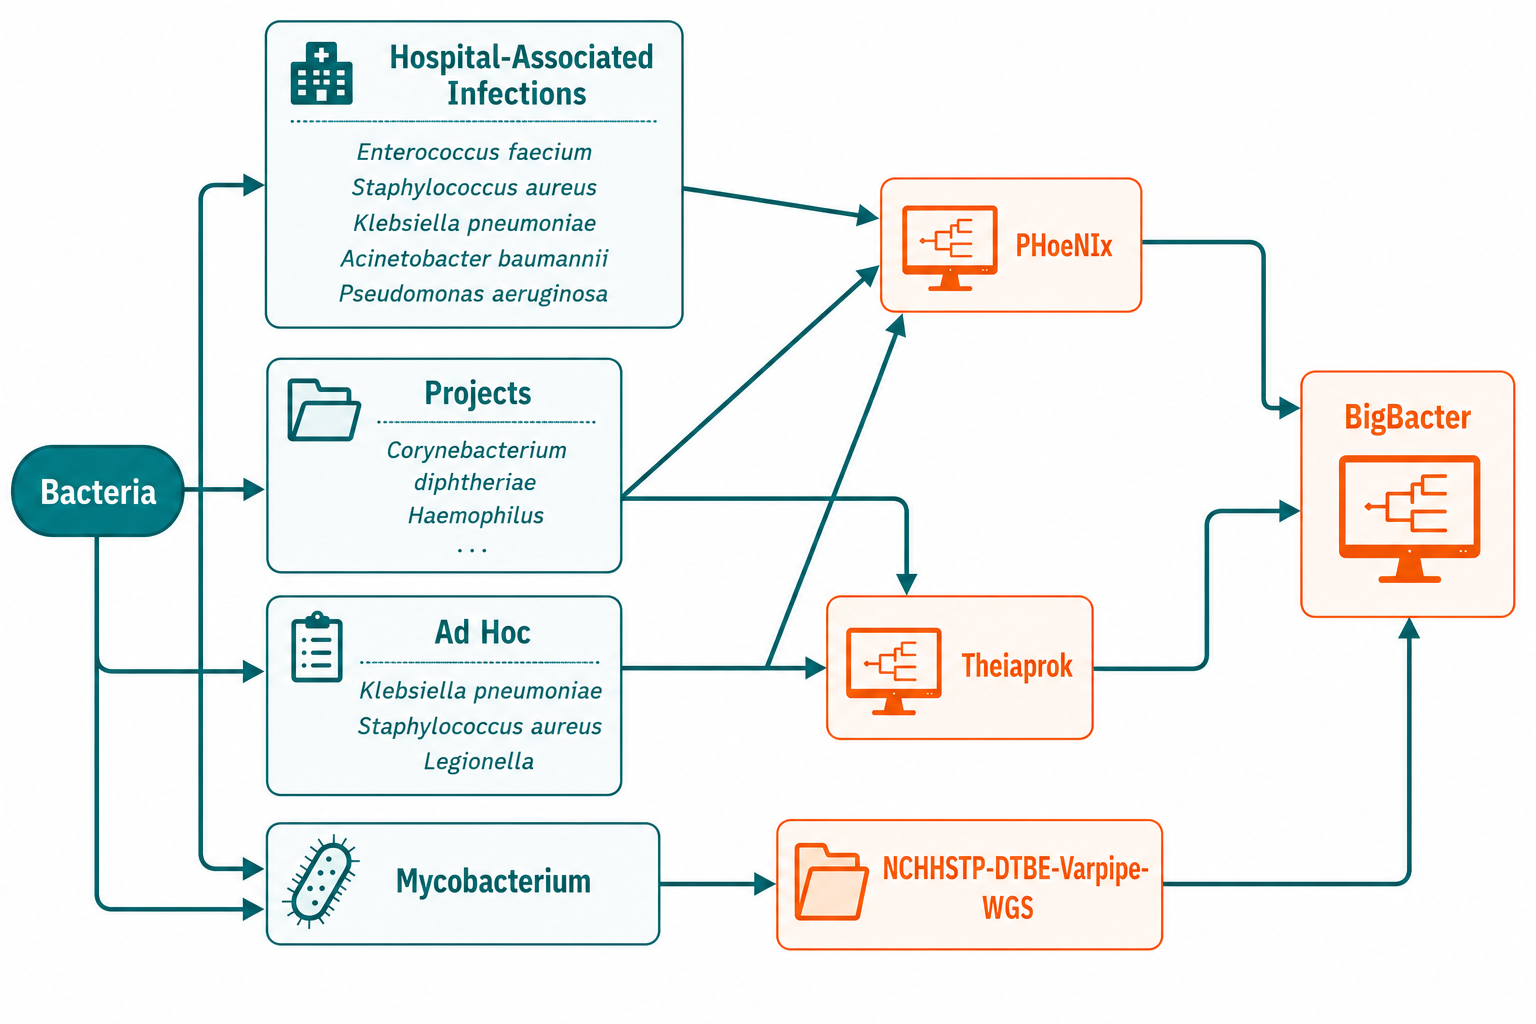
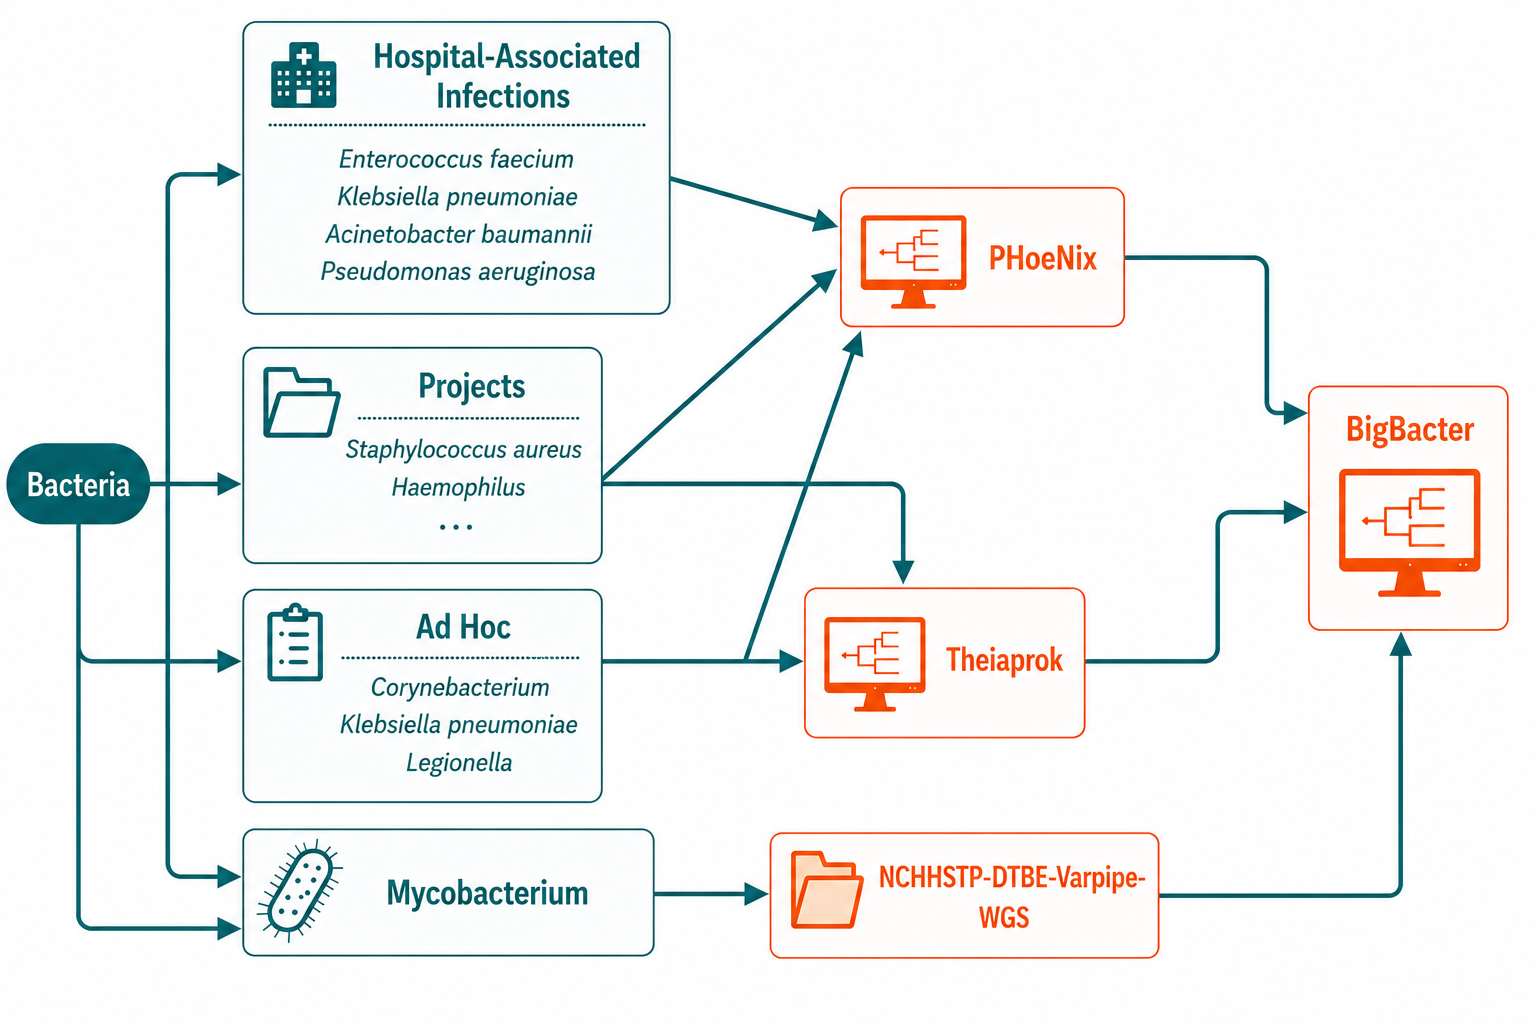
bacterial workflow slide fix

Changed region(s): [[0.0, 0.0312, 1.0, 0.9375]]

diff --git a/cdph-epi-bootcamp/data/cumulative_by_group.html b/cdph-epi-bootcamp/data/cumulative_by_group.html
@@ -2,6 +2,6 @@
 <head><meta charset="utf-8" /></head>
 <body>
     <div style="height:100%; width:100%;">                        <script>window.PlotlyConfig = {MathJaxConfig: 'local'};</script>
-        <script charset="utf-8" src="https://cdn.plot.ly/plotly-3.7.0.min.js" integrity="sha256-jvTGqxNp8AGWEcvNLVuKr+8j5dGe9Yw51LQkmDH+IYA=" crossorigin="anonymous"></script>                <div id="1ba4c65f-1d22-4983-866d-e1cf8800ba35" class="plotly-graph-div" style="height:100%; width:100%;"></div>            <script>                window.PLOTLYENV=window.PLOTLYENV || {};                                if (document.getElementById("1ba4c65f-1d22-4983-866d-e1cf8800ba35")) {                    Plotly.newPlot(                        "1ba4c65f-1d22-4983-866d-e1cf8800ba35",                        [{"hovertemplate":"Acinetobacter\u003cbr\u003eYear: %{x}\u003cbr\u003eCumulative: %{y}\u003cextra\u003e\u003c\u002fextra\u003e","legendgroup":"Bacteria","legendgrouptitle":{"text":"Bacteria"},"line":{"color":"rgba(97,143,151,0.85)","width":1.2},"marker":{"color":"rgba(97,143,151,0.85)","size":4},"mode":"lines+markers","name":"Acinetobacter","x":[2020,2021,2022,2023,2024,2025,2026],"y":{"dtype":"i2","bdata":"RQAcAvIE0AaVB1IIigg="},"type":"scatter"},{"hovertemplate":"Citrobacter\u003cbr\u003eYear: %{x}\u003cbr\u003eCumulative: %{y}\u003cextra\u003e\u003c\u002fextra\u003e","legendgroup":"Bacteria","legendgrouptitle":{"text":"Bacteria"},"line":{"color":"rgba(106,150,157,0.85)","width":1.2},"marker":{"color":"rgba(106,150,157,0.85)","size":4},"mode":"lines+markers","name":"Citrobacter","x":[2020,2021,2022,2023,2024,2025,2026],"y":{"dtype":"i1","bdata":"AQQFChAUFg=="},"type":"scatter"},{"hovertemplate":"Enterobacter\u003cbr\u003eYear: %{x}\u003cbr\u003eCumulative: %{y}\u003cextra\u003e\u003c\u002fextra\u003e","legendgroup":"Bacteria","legendgrouptitle":{"text":"Bacteria"},"line":{"color":"rgba(115,156,163,0.85)","width":1.2},"marker":{"color":"rgba(115,156,163,0.85)","size":4},"mode":"lines+markers","name":"Enterobacter","x":[2020,2021,2022,2023,2024,2025,2026],"y":{"dtype":"i1","bdata":"EyUvPlFiZQ=="},"type":"scatter"},{"hovertemplate":"Escherichia\u003cbr\u003eYear: %{x}\u003cbr\u003eCumulative: %{y}\u003cextra\u003e\u003c\u002fextra\u003e","legendgroup":"Bacteria","legendgrouptitle":{"text":"Bacteria"},"line":{"color":"rgba(124,163,169,0.85)","width":1.2},"marker":{"color":"rgba(124,163,169,0.85)","size":4},"mode":"lines+markers","name":"Escherichia","x":[2020,2021,2022,2023,2024,2025,2026],"y":{"dtype":"i2","bdata":"FAAhAD4AggC7APAACgE="},"type":"scatter"},{"hovertemplate":"Hafnia\u003cbr\u003eYear: %{x}\u003cbr\u003eCumulative: %{y}\u003cextra\u003e\u003c\u002fextra\u003e","legendgroup":"Bacteria","legendgrouptitle":{"text":"Bacteria"},"line":{"color":"rgba(133,169,175,0.85)","width":1.2},"marker":{"color":"rgba(133,169,175,0.85)","size":4},"mode":"lines+markers","name":"Hafnia","x":[2020,2021,2022,2023,2024,2025,2026],"y":{"dtype":"i1","bdata":"AAAAAQEBAQ=="},"type":"scatter"},{"hovertemplate":"Klebsiella\u003cbr\u003eYear: %{x}\u003cbr\u003eCumulative: %{y}\u003cextra\u003e\u003c\u002fextra\u003e","legendgroup":"Bacteria","legendgrouptitle":{"text":"Bacteria"},"line":{"color":"rgba(142,175,181,0.85)","width":1.2},"marker":{"color":"rgba(142,175,181,0.85)","size":4},"mode":"lines+markers","name":"Klebsiella","x":[2020,2021,2022,2023,2024,2025,2026],"y":{"dtype":"i2","bdata":"EwAlAHIAogDEAO0AHwE="},"type":"scatter"},{"hovertemplate":"Morganella\u003cbr\u003eYear: %{x}\u003cbr\u003eCumulative: %{y}\u003cextra\u003e\u003c\u002fextra\u003e","legendgroup":"Bacteria","legendgrouptitle":{"text":"Bacteria"},"line":{"color":"rgba(151,182,187,0.85)","width":1.2},"marker":{"color":"rgba(151,182,187,0.85)","size":4},"mode":"lines+markers","name":"Morganella","x":[2020,2021,2022,2023,2024,2025,2026],"y":{"dtype":"i1","bdata":"AAIEBAQFBg=="},"type":"scatter"},{"hovertemplate":"Proteus\u003cbr\u003eYear: %{x}\u003cbr\u003eCumulative: %{y}\u003cextra\u003e\u003c\u002fextra\u003e","legendgroup":"Bacteria","legendgrouptitle":{"text":"Bacteria"},"line":{"color":"rgba(160,188,193,0.85)","width":1.2},"marker":{"color":"rgba(160,188,193,0.85)","size":4},"mode":"lines+markers","name":"Proteus","x":[2020,2021,2022,2023,2024,2025,2026],"y":{"dtype":"i1","bdata":"AgMECgwNDQ=="},"type":"scatter"},{"hovertemplate":"Providencia\u003cbr\u003eYear: %{x}\u003cbr\u003eCumulative: %{y}\u003cextra\u003e\u003c\u002fextra\u003e","legendgroup":"Bacteria","legendgrouptitle":{"text":"Bacteria"},"line":{"color":"rgba(169,195,199,0.85)","width":1.2},"marker":{"color":"rgba(169,195,199,0.85)","size":4},"mode":"lines+markers","name":"Providencia","x":[2020,2021,2022,2023,2024,2025,2026],"y":{"dtype":"i1","bdata":"AgIFBwgICA=="},"type":"scatter"},{"hovertemplate":"Pseudomonas\u003cbr\u003eYear: %{x}\u003cbr\u003eCumulative: %{y}\u003cextra\u003e\u003c\u002fextra\u003e","legendgroup":"Bacteria","legendgrouptitle":{"text":"Bacteria"},"line":{"color":"rgba(179,201,205,0.85)","width":1.2},"marker":{"color":"rgba(179,201,205,0.85)","size":4},"mode":"lines+markers","name":"Pseudomonas","x":[2020,2021,2022,2023,2024,2025,2026],"y":{"dtype":"i2","bdata":"FAA5AHEAvQDeAPMA\u002fwA="},"type":"scatter"},{"hovertemplate":"Raoultella\u003cbr\u003eYear: %{x}\u003cbr\u003eCumulative: %{y}\u003cextra\u003e\u003c\u002fextra\u003e","legendgroup":"Bacteria","legendgrouptitle":{"text":"Bacteria"},"line":{"color":"rgba(188,207,211,0.85)","width":1.2},"marker":{"color":"rgba(188,207,211,0.85)","size":4},"mode":"lines+markers","name":"Raoultella","x":[2020,2021,2022,2023,2024,2025,2026],"y":{"dtype":"i1","bdata":"AAAAAQEBAQ=="},"type":"scatter"},{"hovertemplate":"Serratia\u003cbr\u003eYear: %{x}\u003cbr\u003eCumulative: %{y}\u003cextra\u003e\u003c\u002fextra\u003e","legendgroup":"Bacteria","legendgrouptitle":{"text":"Bacteria"},"line":{"color":"rgba(197,214,217,0.85)","width":1.2},"marker":{"color":"rgba(197,214,217,0.85)","size":4},"mode":"lines+markers","name":"Serratia","x":[2020,2021,2022,2023,2024,2025,2026],"y":{"dtype":"i1","bdata":"AwMFCgoNDQ=="},"type":"scatter"},{"hovertemplate":"Staphylococcus\u003cbr\u003eYear: %{x}\u003cbr\u003eCumulative: %{y}\u003cextra\u003e\u003c\u002fextra\u003e","legendgroup":"Bacteria","legendgrouptitle":{"text":"Bacteria"},"line":{"color":"rgba(206,220,223,0.85)","width":1.2},"marker":{"color":"rgba(206,220,223,0.85)","size":4},"mode":"lines+markers","name":"Staphylococcus","x":[2020,2021,2022,2023,2024,2025,2026],"y":{"dtype":"i1","bdata":"ExMTExMTEw=="},"type":"scatter"},{"hovertemplate":"Candidozyma\u003cbr\u003eYear: %{x}\u003cbr\u003eCumulative: %{y}\u003cextra\u003e\u003c\u002fextra\u003e","legendgroup":"Fungi","legendgrouptitle":{"text":"Fungi"},"line":{"color":"rgba(237,175,120,0.85)","width":1.2},"marker":{"color":"rgba(237,175,120,0.85)","size":4},"mode":"lines+markers","name":"Candidozyma","x":[2020,2021,2022,2023,2024,2025,2026],"y":{"dtype":"i2","bdata":"AAAAAAAAWQCfAV8CzAI="},"type":"scatter"},{"hovertemplate":"\u003cb\u003eBacteria total\u003c\u002fb\u003e\u003cbr\u003eYear: %{x}\u003cbr\u003eCumulative: %{y}\u003cextra\u003e\u003c\u002fextra\u003e","legendgroup":"Bacteria","legendgrouptitle":{"text":"Bacteria"},"line":{"color":"rgba(12,84,96,1.0)","width":3.5},"marker":{"color":"rgba(12,84,96,1.0)","line":{"color":"white","width":1.2},"size":8},"mode":"lines+markers","name":"\u003cb\u003eBacteria (total)\u003c\u002fb\u003e","x":[2020,2021,2022,2023,2024,2025,2026],"y":{"dtype":"i2","bdata":"rgDhAmwGLQmKCtQLagw="},"type":"scatter"},{"hovertemplate":"\u003cb\u003eFungi total\u003c\u002fb\u003e\u003cbr\u003eYear: %{x}\u003cbr\u003eCumulative: %{y}\u003cextra\u003e\u003c\u002fextra\u003e","legendgroup":"Fungi","legendgrouptitle":{"text":"Fungi"},"line":{"color":"rgba(228,132,48,1.0)","width":3.5},"marker":{"color":"rgba(228,132,48,1.0)","line":{"color":"white","width":1.2},"size":8},"mode":"lines+markers","name":"\u003cb\u003eFungi (total)\u003c\u002fb\u003e","x":[2020,2021,2022,2023,2024,2025,2026],"y":{"dtype":"i2","bdata":"AAAAAAAAWQCfAV8CzAI="},"type":"scatter"}],                        {"template":{"data":{"histogram2dcontour":[{"type":"histogram2dcontour","colorbar":{"outlinewidth":0,"ticks":""},"colorscale":[[0.0,"#0d0887"],[0.1111111111111111,"#46039f"],[0.2222222222222222,"#7201a8"],[0.3333333333333333,"#9c179e"],[0.4444444444444444,"#bd3786"],[0.5555555555555556,"#d8576b"],[0.6666666666666666,"#ed7953"],[0.7777777777777778,"#fb9f3a"],[0.8888888888888888,"#fdca26"],[1.0,"#f0f921"]]}],"choropleth":[{"type":"choropleth","colorbar":{"outlinewidth":0,"ticks":""}}],"histogram2d":[{"type":"histogram2d","colorbar":{"outlinewidth":0,"ticks":""},"colorscale":[[0.0,"#0d0887"],[0.1111111111111111,"#46039f"],[0.2222222222222222,"#7201a8"],[0.3333333333333333,"#9c179e"],[0.4444444444444444,"#bd3786"],[0.5555555555555556,"#d8576b"],[0.6666666666666666,"#ed7953"],[0.7777777777777778,"#fb9f3a"],[0.8888888888888888,"#fdca26"],[1.0,"#f0f921"]]}],"heatmap":[{"type":"heatmap","colorbar":{"outlinewidth":0,"ticks":""},"colorscale":[[0.0,"#0d0887"],[0.1111111111111111,"#46039f"],[0.2222222222222222,"#7201a8"],[0.3333333333333333,"#9c179e"],[0.4444444444444444,"#bd3786"],[0.5555555555555556,"#d8576b"],[0.6666666666666666,"#ed7953"],[0.7777777777777778,"#fb9f3a"],[0.8888888888888888,"#fdca26"],[1.0,"#f0f921"]]}],"contourcarpet":[{"type":"contourcarpet","colorbar":{"outlinewidth":0,"ticks":""}}],"contour":[{"type":"contour","colorbar":{"outlinewidth":0,"ticks":""},"colorscale":[[0.0,"#0d0887"],[0.1111111111111111,"#46039f"],[0.2222222222222222,"#7201a8"],[0.3333333333333333,"#9c179e"],[0.4444444444444444,"#bd3786"],[0.5555555555555556,"#d8576b"],[0.6666666666666666,"#ed7953"],[0.7777777777777778,"#fb9f3a"],[0.8888888888888888,"#fdca26"],[1.0,"#f0f921"]]}],"surface":[{"type":"surface","colorbar":{"outlinewidth":0,"ticks":""},"colorscale":[[0.0,"#0d0887"],[0.1111111111111111,"#46039f"],[0.2222222222222222,"#7201a8"],[0.3333333333333333,"#9c179e"],[0.4444444444444444,"#bd3786"],[0.5555555555555556,"#d8576b"],[0.6666666666666666,"#ed7953"],[0.7777777777777778,"#fb9f3a"],[0.8888888888888888,"#fdca26"],[1.0,"#f0f921"]]}],"mesh3d":[{"type":"mesh3d","colorbar":{"outlinewidth":0,"ticks":""}}],"scatter":[{"fillpattern":{"fillmode":"overlay","size":10,"solidity":0.2},"type":"scatter"}],"parcoords":[{"type":"parcoords","line":{"colorbar":{"outlinewidth":0,"ticks":""}}}],"scatterpolargl":[{"type":"scatterpolargl","marker":{"colorbar":{"outlinewidth":0,"ticks":""}}}],"bar":[{"error_x":{"color":"#2a3f5f"},"error_y":{"color":"#2a3f5f"},"marker":{"line":{"color":"#E5ECF6","width":0.5},"pattern":{"fillmode":"overlay","size":10,"solidity":0.2}},"type":"bar"}],"scattergeo":[{"type":"scattergeo","marker":{"colorbar":{"outlinewidth":0,"ticks":""}}}],"scatterpolar":[{"type":"scatterpolar","marker":{"colorbar":{"outlinewidth":0,"ticks":""}}}],"histogram":[{"marker":{"pattern":{"fillmode":"overlay","size":10,"solidity":0.2}},"type":"histogram"}],"scattergl":[{"type":"scattergl","marker":{"colorbar":{"outlinewidth":0,"ticks":""}}}],"scatter3d":[{"type":"scatter3d","line":{"colorbar":{"outlinewidth":0,"ticks":""}},"marker":{"colorbar":{"outlinewidth":0,"ticks":""}}}],"scattermap":[{"type":"scattermap","marker":{"colorbar":{"outlinewidth":0,"ticks":""}}}],"scattermapbox":[{"type":"scattermapbox","marker":{"colorbar":{"outlinewidth":0,"ticks":""}}}],"scatterternary":[{"type":"scatterternary","marker":{"colorbar":{"outlinewidth":0,"ticks":""}}}],"scattercarpet":[{"type":"scattercarpet","marker":{"colorbar":{"outlinewidth":0,"ticks":""}}}],"carpet":[{"aaxis":{"endlinecolor":"#2a3f5f","gridcolor":"white","linecolor":"white","minorgridcolor":"white","startlinecolor":"#2a3f5f"},"baxis":{"endlinecolor":"#2a3f5f","gridcolor":"white","linecolor":"white","minorgridcolor":"white","startlinecolor":"#2a3f5f"},"type":"carpet"}],"table":[{"cells":{"fill":{"color":"#EBF0F8"},"line":{"color":"white"}},"header":{"fill":{"color":"#C8D4E3"},"line":{"color":"white"}},"type":"table"}],"barpolar":[{"marker":{"line":{"color":"#E5ECF6","width":0.5},"pattern":{"fillmode":"overlay","size":10,"solidity":0.2}},"type":"barpolar"}],"pie":[{"automargin":true,"type":"pie"}]},"layout":{"autotypenumbers":"strict","colorway":["#636efa","#EF553B","#00cc96","#ab63fa","#FFA15A","#19d3f3","#FF6692","#B6E880","#FF97FF","#FECB52"],"font":{"color":"#2a3f5f"},"hovermode":"closest","hoverlabel":{"align":"left"},"paper_bgcolor":"white","plot_bgcolor":"#E5ECF6","polar":{"bgcolor":"#E5ECF6","angularaxis":{"gridcolor":"white","linecolor":"white","ticks":""},"radialaxis":{"gridcolor":"white","linecolor":"white","ticks":""}},"ternary":{"bgcolor":"#E5ECF6","aaxis":{"gridcolor":"white","linecolor":"white","ticks":""},"baxis":{"gridcolor":"white","linecolor":"white","ticks":""},"caxis":{"gridcolor":"white","linecolor":"white","ticks":""}},"coloraxis":{"colorbar":{"outlinewidth":0,"ticks":""}},"colorscale":{"sequential":[[0.0,"#0d0887"],[0.1111111111111111,"#46039f"],[0.2222222222222222,"#7201a8"],[0.3333333333333333,"#9c179e"],[0.4444444444444444,"#bd3786"],[0.5555555555555556,"#d8576b"],[0.6666666666666666,"#ed7953"],[0.7777777777777778,"#fb9f3a"],[0.8888888888888888,"#fdca26"],[1.0,"#f0f921"]],"sequentialminus":[[0.0,"#0d0887"],[0.1111111111111111,"#46039f"],[0.2222222222222222,"#7201a8"],[0.3333333333333333,"#9c179e"],[0.4444444444444444,"#bd3786"],[0.5555555555555556,"#d8576b"],[0.6666666666666666,"#ed7953"],[0.7777777777777778,"#fb9f3a"],[0.8888888888888888,"#fdca26"],[1.0,"#f0f921"]],"diverging":[[0,"#8e0152"],[0.1,"#c51b7d"],[0.2,"#de77ae"],[0.3,"#f1b6da"],[0.4,"#fde0ef"],[0.5,"#f7f7f7"],[0.6,"#e6f5d0"],[0.7,"#b8e186"],[0.8,"#7fbc41"],[0.9,"#4d9221"],[1,"#276419"]]},"xaxis":{"gridcolor":"white","linecolor":"white","ticks":"","title":{"standoff":15},"zerolinecolor":"white","automargin":true,"zerolinewidth":2},"yaxis":{"gridcolor":"white","linecolor":"white","ticks":"","title":{"standoff":15},"zerolinecolor":"white","automargin":true,"zerolinewidth":2},"scene":{"xaxis":{"backgroundcolor":"#E5ECF6","gridcolor":"white","linecolor":"white","showbackground":true,"ticks":"","zerolinecolor":"white","gridwidth":2},"yaxis":{"backgroundcolor":"#E5ECF6","gridcolor":"white","linecolor":"white","showbackground":true,"ticks":"","zerolinecolor":"white","gridwidth":2},"zaxis":{"backgroundcolor":"#E5ECF6","gridcolor":"white","linecolor":"white","showbackground":true,"ticks":"","zerolinecolor":"white","gridwidth":2}},"shapedefaults":{"line":{"color":"#2a3f5f"}},"annotationdefaults":{"arrowcolor":"#2a3f5f","arrowhead":0,"arrowwidth":1},"geo":{"bgcolor":"white","landcolor":"#E5ECF6","subunitcolor":"white","showland":true,"showlakes":true,"lakecolor":"white"},"title":{"x":0.05},"mapbox":{"style":"light"},"margin":{"b":0,"l":0,"r":0,"t":30}}},"title":{"text":"Cumulative isolates \u2014 bacterial & fungal","x":0.02},"xaxis":{"title":{"text":"Year"},"dtick":1,"showgrid":false},"yaxis":{"title":{"text":"Cumulative count"},"gridcolor":"#eee","rangemode":"tozero"},"legend":{"groupclick":"toggleitem"},"hovermode":"closest","plot_bgcolor":"white","paper_bgcolor":"white"},                        {"responsive": true}                    )                };            </script>        </div>
+        <script charset="utf-8" src="https://cdn.plot.ly/plotly-3.7.0.min.js" integrity="sha256-jvTGqxNp8AGWEcvNLVuKr+8j5dGe9Yw51LQkmDH+IYA=" crossorigin="anonymous"></script>                <div id="0c26e483-4ce5-4fa3-beac-5f2fae616383" class="plotly-graph-div" style="height:100%; width:100%;"></div>            <script>                window.PLOTLYENV=window.PLOTLYENV || {};                                if (document.getElementById("0c26e483-4ce5-4fa3-beac-5f2fae616383")) {                    Plotly.newPlot(                        "0c26e483-4ce5-4fa3-beac-5f2fae616383",                        [{"hovertemplate":"Acinetobacter\u003cbr\u003eYear: %{x}\u003cbr\u003eCumulative: %{y}\u003cextra\u003e\u003c\u002fextra\u003e","legendgroup":"Bacteria","legendgrouptitle":{"text":"Bacteria"},"line":{"color":"rgba(97,143,151,0.85)","width":1.2},"marker":{"color":"rgba(97,143,151,0.85)","size":4},"mode":"lines+markers","name":"Acinetobacter","x":[2020,2021,2022,2023,2024,2025,2026],"y":{"dtype":"i2","bdata":"RQAcAvIE0AaVB1IIigg="},"type":"scatter"},{"hovertemplate":"Citrobacter\u003cbr\u003eYear: %{x}\u003cbr\u003eCumulative: %{y}\u003cextra\u003e\u003c\u002fextra\u003e","legendgroup":"Bacteria","legendgrouptitle":{"text":"Bacteria"},"line":{"color":"rgba(106,150,157,0.85)","width":1.2},"marker":{"color":"rgba(106,150,157,0.85)","size":4},"mode":"lines+markers","name":"Citrobacter","x":[2020,2021,2022,2023,2024,2025,2026],"y":{"dtype":"i1","bdata":"AQQFChAUFg=="},"type":"scatter"},{"hovertemplate":"Enterobacter\u003cbr\u003eYear: %{x}\u003cbr\u003eCumulative: %{y}\u003cextra\u003e\u003c\u002fextra\u003e","legendgroup":"Bacteria","legendgrouptitle":{"text":"Bacteria"},"line":{"color":"rgba(115,156,163,0.85)","width":1.2},"marker":{"color":"rgba(115,156,163,0.85)","size":4},"mode":"lines+markers","name":"Enterobacter","x":[2020,2021,2022,2023,2024,2025,2026],"y":{"dtype":"i1","bdata":"EyUvPlFiZQ=="},"type":"scatter"},{"hovertemplate":"Escherichia\u003cbr\u003eYear: %{x}\u003cbr\u003eCumulative: %{y}\u003cextra\u003e\u003c\u002fextra\u003e","legendgroup":"Bacteria","legendgrouptitle":{"text":"Bacteria"},"line":{"color":"rgba(124,163,169,0.85)","width":1.2},"marker":{"color":"rgba(124,163,169,0.85)","size":4},"mode":"lines+markers","name":"Escherichia","x":[2020,2021,2022,2023,2024,2025,2026],"y":{"dtype":"i2","bdata":"FAAhAD4AggC7APAACgE="},"type":"scatter"},{"hovertemplate":"Hafnia\u003cbr\u003eYear: %{x}\u003cbr\u003eCumulative: %{y}\u003cextra\u003e\u003c\u002fextra\u003e","legendgroup":"Bacteria","legendgrouptitle":{"text":"Bacteria"},"line":{"color":"rgba(133,169,175,0.85)","width":1.2},"marker":{"color":"rgba(133,169,175,0.85)","size":4},"mode":"lines+markers","name":"Hafnia","x":[2020,2021,2022,2023,2024,2025,2026],"y":{"dtype":"i1","bdata":"AAAAAQEBAQ=="},"type":"scatter"},{"hovertemplate":"Klebsiella\u003cbr\u003eYear: %{x}\u003cbr\u003eCumulative: %{y}\u003cextra\u003e\u003c\u002fextra\u003e","legendgroup":"Bacteria","legendgrouptitle":{"text":"Bacteria"},"line":{"color":"rgba(142,175,181,0.85)","width":1.2},"marker":{"color":"rgba(142,175,181,0.85)","size":4},"mode":"lines+markers","name":"Klebsiella","x":[2020,2021,2022,2023,2024,2025,2026],"y":{"dtype":"i2","bdata":"EwAlAHIAogDEAO0AHwE="},"type":"scatter"},{"hovertemplate":"Morganella\u003cbr\u003eYear: %{x}\u003cbr\u003eCumulative: %{y}\u003cextra\u003e\u003c\u002fextra\u003e","legendgroup":"Bacteria","legendgrouptitle":{"text":"Bacteria"},"line":{"color":"rgba(151,182,187,0.85)","width":1.2},"marker":{"color":"rgba(151,182,187,0.85)","size":4},"mode":"lines+markers","name":"Morganella","x":[2020,2021,2022,2023,2024,2025,2026],"y":{"dtype":"i1","bdata":"AAIEBAQFBg=="},"type":"scatter"},{"hovertemplate":"Proteus\u003cbr\u003eYear: %{x}\u003cbr\u003eCumulative: %{y}\u003cextra\u003e\u003c\u002fextra\u003e","legendgroup":"Bacteria","legendgrouptitle":{"text":"Bacteria"},"line":{"color":"rgba(160,188,193,0.85)","width":1.2},"marker":{"color":"rgba(160,188,193,0.85)","size":4},"mode":"lines+markers","name":"Proteus","x":[2020,2021,2022,2023,2024,2025,2026],"y":{"dtype":"i1","bdata":"AgMECgwNDQ=="},"type":"scatter"},{"hovertemplate":"Providencia\u003cbr\u003eYear: %{x}\u003cbr\u003eCumulative: %{y}\u003cextra\u003e\u003c\u002fextra\u003e","legendgroup":"Bacteria","legendgrouptitle":{"text":"Bacteria"},"line":{"color":"rgba(169,195,199,0.85)","width":1.2},"marker":{"color":"rgba(169,195,199,0.85)","size":4},"mode":"lines+markers","name":"Providencia","x":[2020,2021,2022,2023,2024,2025,2026],"y":{"dtype":"i1","bdata":"AgIFBwgICA=="},"type":"scatter"},{"hovertemplate":"Pseudomonas\u003cbr\u003eYear: %{x}\u003cbr\u003eCumulative: %{y}\u003cextra\u003e\u003c\u002fextra\u003e","legendgroup":"Bacteria","legendgrouptitle":{"text":"Bacteria"},"line":{"color":"rgba(179,201,205,0.85)","width":1.2},"marker":{"color":"rgba(179,201,205,0.85)","size":4},"mode":"lines+markers","name":"Pseudomonas","x":[2020,2021,2022,2023,2024,2025,2026],"y":{"dtype":"i2","bdata":"FAA5AHEAvQDeAPMA\u002fwA="},"type":"scatter"},{"hovertemplate":"Raoultella\u003cbr\u003eYear: %{x}\u003cbr\u003eCumulative: %{y}\u003cextra\u003e\u003c\u002fextra\u003e","legendgroup":"Bacteria","legendgrouptitle":{"text":"Bacteria"},"line":{"color":"rgba(188,207,211,0.85)","width":1.2},"marker":{"color":"rgba(188,207,211,0.85)","size":4},"mode":"lines+markers","name":"Raoultella","x":[2020,2021,2022,2023,2024,2025,2026],"y":{"dtype":"i1","bdata":"AAAAAQEBAQ=="},"type":"scatter"},{"hovertemplate":"Serratia\u003cbr\u003eYear: %{x}\u003cbr\u003eCumulative: %{y}\u003cextra\u003e\u003c\u002fextra\u003e","legendgroup":"Bacteria","legendgrouptitle":{"text":"Bacteria"},"line":{"color":"rgba(197,214,217,0.85)","width":1.2},"marker":{"color":"rgba(197,214,217,0.85)","size":4},"mode":"lines+markers","name":"Serratia","x":[2020,2021,2022,2023,2024,2025,2026],"y":{"dtype":"i1","bdata":"AwMFCgoNDQ=="},"type":"scatter"},{"hovertemplate":"Staphylococcus\u003cbr\u003eYear: %{x}\u003cbr\u003eCumulative: %{y}\u003cextra\u003e\u003c\u002fextra\u003e","legendgroup":"Bacteria","legendgrouptitle":{"text":"Bacteria"},"line":{"color":"rgba(206,220,223,0.85)","width":1.2},"marker":{"color":"rgba(206,220,223,0.85)","size":4},"mode":"lines+markers","name":"Staphylococcus","x":[2020,2021,2022,2023,2024,2025,2026],"y":{"dtype":"i1","bdata":"ExMTExMTEw=="},"type":"scatter"},{"hovertemplate":"Candidozyma\u003cbr\u003eYear: %{x}\u003cbr\u003eCumulative: %{y}\u003cextra\u003e\u003c\u002fextra\u003e","legendgroup":"Fungi","legendgrouptitle":{"text":"Fungi"},"line":{"color":"rgba(237,175,120,0.85)","width":1.2},"marker":{"color":"rgba(237,175,120,0.85)","size":4},"mode":"lines+markers","name":"Candidozyma","x":[2020,2021,2022,2023,2024,2025,2026],"y":{"dtype":"i2","bdata":"AAAAAAAAWQCfAV8CzAI="},"type":"scatter"},{"hovertemplate":"\u003cb\u003eBacteria total\u003c\u002fb\u003e\u003cbr\u003eYear: %{x}\u003cbr\u003eCumulative: %{y}\u003cextra\u003e\u003c\u002fextra\u003e","legendgroup":"Bacteria","legendgrouptitle":{"text":"Bacteria"},"line":{"color":"rgba(12,84,96,1.0)","width":3.5},"marker":{"color":"rgba(12,84,96,1.0)","line":{"color":"white","width":1.2},"size":8},"mode":"lines+markers","name":"\u003cb\u003eBacteria (total)\u003c\u002fb\u003e","x":[2020,2021,2022,2023,2024,2025,2026],"y":{"dtype":"i2","bdata":"rgDhAmwGLQmKCtQLagw="},"type":"scatter"},{"hovertemplate":"\u003cb\u003eFungi total\u003c\u002fb\u003e\u003cbr\u003eYear: %{x}\u003cbr\u003eCumulative: %{y}\u003cextra\u003e\u003c\u002fextra\u003e","legendgroup":"Fungi","legendgrouptitle":{"text":"Fungi"},"line":{"color":"rgba(228,132,48,1.0)","width":3.5},"marker":{"color":"rgba(228,132,48,1.0)","line":{"color":"white","width":1.2},"size":8},"mode":"lines+markers","name":"\u003cb\u003eFungi (total)\u003c\u002fb\u003e","x":[2020,2021,2022,2023,2024,2025,2026],"y":{"dtype":"i2","bdata":"AAAAAAAAWQCfAV8CzAI="},"type":"scatter"}],                        {"template":{"data":{"histogram2dcontour":[{"type":"histogram2dcontour","colorbar":{"outlinewidth":0,"ticks":""},"colorscale":[[0.0,"#0d0887"],[0.1111111111111111,"#46039f"],[0.2222222222222222,"#7201a8"],[0.3333333333333333,"#9c179e"],[0.4444444444444444,"#bd3786"],[0.5555555555555556,"#d8576b"],[0.6666666666666666,"#ed7953"],[0.7777777777777778,"#fb9f3a"],[0.8888888888888888,"#fdca26"],[1.0,"#f0f921"]]}],"choropleth":[{"type":"choropleth","colorbar":{"outlinewidth":0,"ticks":""}}],"histogram2d":[{"type":"histogram2d","colorbar":{"outlinewidth":0,"ticks":""},"colorscale":[[0.0,"#0d0887"],[0.1111111111111111,"#46039f"],[0.2222222222222222,"#7201a8"],[0.3333333333333333,"#9c179e"],[0.4444444444444444,"#bd3786"],[0.5555555555555556,"#d8576b"],[0.6666666666666666,"#ed7953"],[0.7777777777777778,"#fb9f3a"],[0.8888888888888888,"#fdca26"],[1.0,"#f0f921"]]}],"heatmap":[{"type":"heatmap","colorbar":{"outlinewidth":0,"ticks":""},"colorscale":[[0.0,"#0d0887"],[0.1111111111111111,"#46039f"],[0.2222222222222222,"#7201a8"],[0.3333333333333333,"#9c179e"],[0.4444444444444444,"#bd3786"],[0.5555555555555556,"#d8576b"],[0.6666666666666666,"#ed7953"],[0.7777777777777778,"#fb9f3a"],[0.8888888888888888,"#fdca26"],[1.0,"#f0f921"]]}],"contourcarpet":[{"type":"contourcarpet","colorbar":{"outlinewidth":0,"ticks":""}}],"contour":[{"type":"contour","colorbar":{"outlinewidth":0,"ticks":""},"colorscale":[[0.0,"#0d0887"],[0.1111111111111111,"#46039f"],[0.2222222222222222,"#7201a8"],[0.3333333333333333,"#9c179e"],[0.4444444444444444,"#bd3786"],[0.5555555555555556,"#d8576b"],[0.6666666666666666,"#ed7953"],[0.7777777777777778,"#fb9f3a"],[0.8888888888888888,"#fdca26"],[1.0,"#f0f921"]]}],"surface":[{"type":"surface","colorbar":{"outlinewidth":0,"ticks":""},"colorscale":[[0.0,"#0d0887"],[0.1111111111111111,"#46039f"],[0.2222222222222222,"#7201a8"],[0.3333333333333333,"#9c179e"],[0.4444444444444444,"#bd3786"],[0.5555555555555556,"#d8576b"],[0.6666666666666666,"#ed7953"],[0.7777777777777778,"#fb9f3a"],[0.8888888888888888,"#fdca26"],[1.0,"#f0f921"]]}],"mesh3d":[{"type":"mesh3d","colorbar":{"outlinewidth":0,"ticks":""}}],"scatter":[{"fillpattern":{"fillmode":"overlay","size":10,"solidity":0.2},"type":"scatter"}],"parcoords":[{"type":"parcoords","line":{"colorbar":{"outlinewidth":0,"ticks":""}}}],"scatterpolargl":[{"type":"scatterpolargl","marker":{"colorbar":{"outlinewidth":0,"ticks":""}}}],"bar":[{"error_x":{"color":"#2a3f5f"},"error_y":{"color":"#2a3f5f"},"marker":{"line":{"color":"#E5ECF6","width":0.5},"pattern":{"fillmode":"overlay","size":10,"solidity":0.2}},"type":"bar"}],"scattergeo":[{"type":"scattergeo","marker":{"colorbar":{"outlinewidth":0,"ticks":""}}}],"scatterpolar":[{"type":"scatterpolar","marker":{"colorbar":{"outlinewidth":0,"ticks":""}}}],"histogram":[{"marker":{"pattern":{"fillmode":"overlay","size":10,"solidity":0.2}},"type":"histogram"}],"scattergl":[{"type":"scattergl","marker":{"colorbar":{"outlinewidth":0,"ticks":""}}}],"scatter3d":[{"type":"scatter3d","line":{"colorbar":{"outlinewidth":0,"ticks":""}},"marker":{"colorbar":{"outlinewidth":0,"ticks":""}}}],"scattermap":[{"type":"scattermap","marker":{"colorbar":{"outlinewidth":0,"ticks":""}}}],"scattermapbox":[{"type":"scattermapbox","marker":{"colorbar":{"outlinewidth":0,"ticks":""}}}],"scatterternary":[{"type":"scatterternary","marker":{"colorbar":{"outlinewidth":0,"ticks":""}}}],"scattercarpet":[{"type":"scattercarpet","marker":{"colorbar":{"outlinewidth":0,"ticks":""}}}],"carpet":[{"aaxis":{"endlinecolor":"#2a3f5f","gridcolor":"white","linecolor":"white","minorgridcolor":"white","startlinecolor":"#2a3f5f"},"baxis":{"endlinecolor":"#2a3f5f","gridcolor":"white","linecolor":"white","minorgridcolor":"white","startlinecolor":"#2a3f5f"},"type":"carpet"}],"table":[{"cells":{"fill":{"color":"#EBF0F8"},"line":{"color":"white"}},"header":{"fill":{"color":"#C8D4E3"},"line":{"color":"white"}},"type":"table"}],"barpolar":[{"marker":{"line":{"color":"#E5ECF6","width":0.5},"pattern":{"fillmode":"overlay","size":10,"solidity":0.2}},"type":"barpolar"}],"pie":[{"automargin":true,"type":"pie"}]},"layout":{"autotypenumbers":"strict","colorway":["#636efa","#EF553B","#00cc96","#ab63fa","#FFA15A","#19d3f3","#FF6692","#B6E880","#FF97FF","#FECB52"],"font":{"color":"#2a3f5f"},"hovermode":"closest","hoverlabel":{"align":"left"},"paper_bgcolor":"white","plot_bgcolor":"#E5ECF6","polar":{"bgcolor":"#E5ECF6","angularaxis":{"gridcolor":"white","linecolor":"white","ticks":""},"radialaxis":{"gridcolor":"white","linecolor":"white","ticks":""}},"ternary":{"bgcolor":"#E5ECF6","aaxis":{"gridcolor":"white","linecolor":"white","ticks":""},"baxis":{"gridcolor":"white","linecolor":"white","ticks":""},"caxis":{"gridcolor":"white","linecolor":"white","ticks":""}},"coloraxis":{"colorbar":{"outlinewidth":0,"ticks":""}},"colorscale":{"sequential":[[0.0,"#0d0887"],[0.1111111111111111,"#46039f"],[0.2222222222222222,"#7201a8"],[0.3333333333333333,"#9c179e"],[0.4444444444444444,"#bd3786"],[0.5555555555555556,"#d8576b"],[0.6666666666666666,"#ed7953"],[0.7777777777777778,"#fb9f3a"],[0.8888888888888888,"#fdca26"],[1.0,"#f0f921"]],"sequentialminus":[[0.0,"#0d0887"],[0.1111111111111111,"#46039f"],[0.2222222222222222,"#7201a8"],[0.3333333333333333,"#9c179e"],[0.4444444444444444,"#bd3786"],[0.5555555555555556,"#d8576b"],[0.6666666666666666,"#ed7953"],[0.7777777777777778,"#fb9f3a"],[0.8888888888888888,"#fdca26"],[1.0,"#f0f921"]],"diverging":[[0,"#8e0152"],[0.1,"#c51b7d"],[0.2,"#de77ae"],[0.3,"#f1b6da"],[0.4,"#fde0ef"],[0.5,"#f7f7f7"],[0.6,"#e6f5d0"],[0.7,"#b8e186"],[0.8,"#7fbc41"],[0.9,"#4d9221"],[1,"#276419"]]},"xaxis":{"gridcolor":"white","linecolor":"white","ticks":"","title":{"standoff":15},"zerolinecolor":"white","automargin":true,"zerolinewidth":2},"yaxis":{"gridcolor":"white","linecolor":"white","ticks":"","title":{"standoff":15},"zerolinecolor":"white","automargin":true,"zerolinewidth":2},"scene":{"xaxis":{"backgroundcolor":"#E5ECF6","gridcolor":"white","linecolor":"white","showbackground":true,"ticks":"","zerolinecolor":"white","gridwidth":2},"yaxis":{"backgroundcolor":"#E5ECF6","gridcolor":"white","linecolor":"white","showbackground":true,"ticks":"","zerolinecolor":"white","gridwidth":2},"zaxis":{"backgroundcolor":"#E5ECF6","gridcolor":"white","linecolor":"white","showbackground":true,"ticks":"","zerolinecolor":"white","gridwidth":2}},"shapedefaults":{"line":{"color":"#2a3f5f"}},"annotationdefaults":{"arrowcolor":"#2a3f5f","arrowhead":0,"arrowwidth":1},"geo":{"bgcolor":"white","landcolor":"#E5ECF6","subunitcolor":"white","showland":true,"showlakes":true,"lakecolor":"white"},"title":{"x":0.05},"mapbox":{"style":"light"},"margin":{"b":0,"l":0,"r":0,"t":30}}},"title":{"text":"Cumulative isolates \u2014 bacterial & fungal","x":0.02},"xaxis":{"title":{"text":"Year"},"dtick":1,"showgrid":false},"yaxis":{"title":{"text":"Cumulative count"},"gridcolor":"#eee","rangemode":"tozero"},"legend":{"groupclick":"toggleitem"},"hovermode":"closest","plot_bgcolor":"white","paper_bgcolor":"white"},                        {"responsive": true}                    )                };            </script>        </div>
 </body>
 </html>